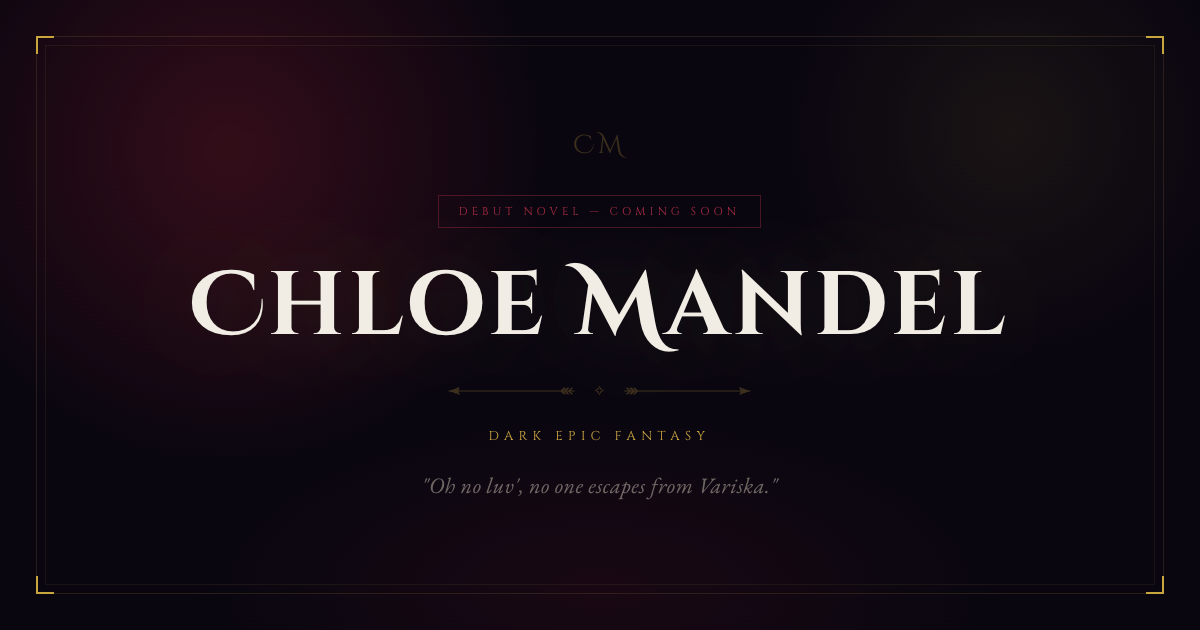
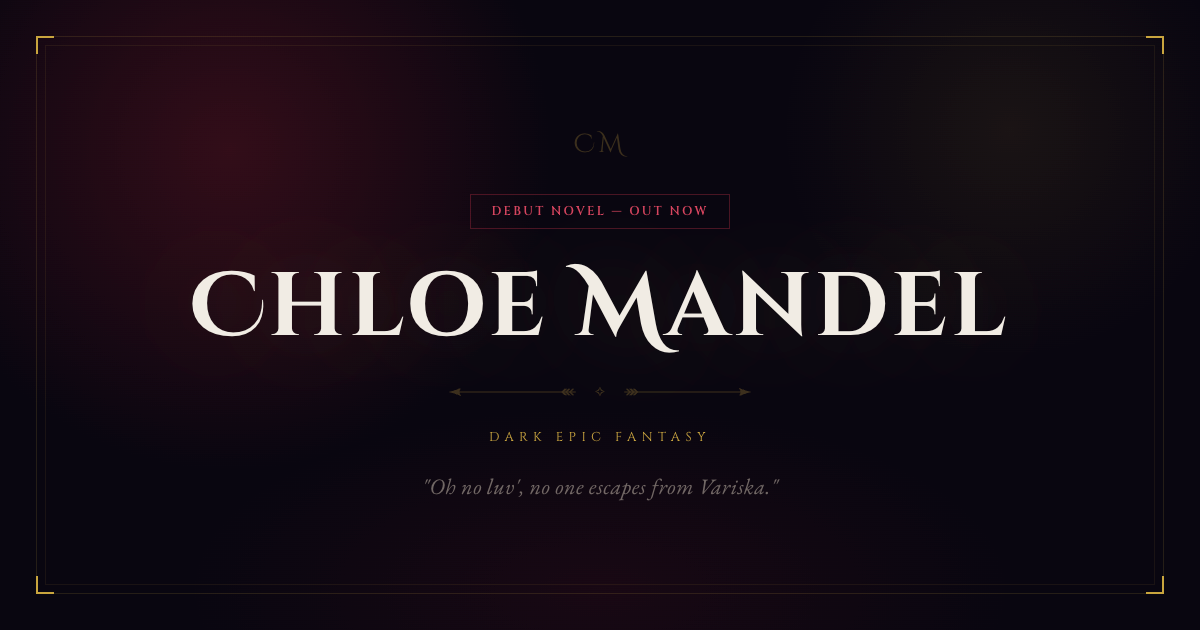
Update release and links

diff --git a/index.html b/index.html
@@ -6,7 +6,7 @@
 
   <!-- ── Primary meta ───────────────────────────────────────── -->
   <title>Chloe Mandel — Dark Epic Fantasy Author</title>
-  <meta name="description" content="Chloe Mandel writes dark and epic fantasy. Debut novel Curse of Nohvan releases November 2, 2026.">
+  <meta name="description" content="Chloe Mandel writes dark and epic fantasy. Debut novel Curse of Nohvan is out now.">
   <meta name="author" content="Chloe Mandel">
   <meta name="theme-color" content="#c9a53f" />
   <link rel="manifest" href="/manifest.json">
@@ -22,19 +22,19 @@
   <meta property="og:type"        content="website">
   <meta property="og:site_name"   content="Chloe Mandel">
   <meta property="og:title"       content="Chloe Mandel — Dark Epic Fantasy Author">
-  <meta property="og:description" content="Welcome to the dark epic fantasy worlds of Chloe Mandel. Step into a cursed valley and discover her upcoming debut novel, Curse of Nohvan.">
+  <meta property="og:description" content="Welcome to the dark epic fantasy worlds of Chloe Mandel. Step into a cursed valley and discover her debut novel, Curse of Nohvan, out now.">
   <meta property="og:url"         content="https://chloemandel.com">
   <meta property="og:image"        content="https://chloemandel.com/images/og-image.jpg">
   <meta property="og:image:width"  content="1200">
   <meta property="og:image:height" content="630">
   <meta property="og:image:type"   content="image/jpeg">
-  <meta property="og:image:alt" content="Dark epic fantasy teaser graphic for Chloe Mandel's upcoming debut novel, Curse of Nohvan, featuring the quote "Oh no luv', no one escapes from Variska."" />
+  <meta property="og:image:alt" content="Dark epic fantasy teaser graphic for Chloe Mandel's debut novel, Curse of Nohvan, featuring the quote "Oh no luv', no one escapes from Variska."" />
   <meta property="og:locale" content="en_GB" />
 
   <!-- ── Twitter / X Card (also used by Bluesky for previews) ─ -->
   <meta name="twitter:card"        content="summary_large_image">
   <meta name="twitter:title"       content="Chloe Mandel — Dark Epic Fantasy Author">
-  <meta name="twitter:description" content="Chloe Mandel writes dark and epic fantasy. Debut novel releases November 2, 2026.">
+  <meta name="twitter:description" content="Chloe Mandel writes dark and epic fantasy. Debut novel Curse of Nohvan is out now.">
   <meta name="twitter:image"       content="https://chloemandel.com/images/og-image.jpg">
 
   <!-- ── Canonical ────────────────────────────────────────────── -->
@@ -72,19 +72,21 @@
         "description": "A simple escort mission. A cursed valley. A stranger he was never meant to protect — and now can't abandon.",
         "inLanguage": "en",
         "datePublished": "2026-11-02",
-        "offers": {
-          "@type": "Offer",
-          "url": "https://www.amazon.com/dp/PLACEHOLDER",
-          "availability": "https://schema.org/PreOrder",
-          "priceCurrency": "USD"
-        }
+        "offers": [
+          { "@type": "Offer", "name": "Ebook on Amazon", "url": "https://mybook.to/curse-of-nohvan", "availability": "https://schema.org/InStock", "price": "4.99", "priceCurrency": "USD" },
+          { "@type": "Offer", "name": "Ebook on Kobo", "url": "https://www.kobo.com/gb/en/ebook/curse-of-nohvan", "availability": "https://schema.org/InStock", "price": "4.99", "priceCurrency": "GBP" },
+          { "@type": "Offer", "name": "Ebook on Google Play", "url": "https://play.google.com/store/books/details?id=YDoiEgAAQBAJ", "availability": "https://schema.org/InStock", "price": "4.99", "priceCurrency": "USD" },
+          { "@type": "Offer", "name": "Paperback on Amazon", "url": "https://mybook.to/curse-of-nohvan-paper", "availability": "https://schema.org/InStock", "price": "19.99", "priceCurrency": "USD" },
+          { "@type": "Offer", "name": "Paperback on Barnes & Noble", "url": "https://www.barnesandnoble.com/w/curse-of-nohvan-chloe-mandel/1151806192", "availability": "https://schema.org/InStock", "price": "19.99", "priceCurrency": "USD" },
+          { "@type": "Offer", "name": "Paperback on Waterstones", "url": "https://www.waterstones.com/book/curse-of-nohvan/chloe-mandel/9781066966714", "availability": "https://schema.org/InStock", "price": "12.99", "priceCurrency": "GBP" }
+        ]
       },
       {
         "@type": "WebSite",
         "@id": "https://chloemandel.com/#website",
         "name": "Chloe Mandel",
         "url": "https://chloemandel.com",
-        "description": "Chloe Mandel writes dark and epic fantasy. Debut novel Curse of Nohvan releases November 2, 2026.",
+        "description": "Chloe Mandel writes dark and epic fantasy. Debut novel Curse of Nohvan is out now.",
         "author": { "@id": "https://chloemandel.com/#author" }
       }
     ]
@@ -160,7 +162,7 @@
       </div>
 
       <div class="hero-content">
-        <span class="hero-label">Debut Novel &mdash; Nov 2, 2026</span>
+        <span class="hero-label">Debut Novel &mdash; Out Now</span>
 
         <h1 class="hero-hook">
           Oh no luv',<br>no one escapes from Variska.
@@ -176,7 +178,7 @@
         <p class="hero-genre">A Dark Epic Fantasy Novel</p>
 
         <div class="hero-actions">
-          <a href="#books" class="btn btn--primary">Discover the Book</a>
+          <button type="button" class="btn btn--primary" data-buy-open>Get the Book</button>
           <a href="#about" class="btn btn--ghost">About the Author</a>
         </div>
       </div>
@@ -212,13 +214,11 @@
                 <!-- <div class="book-cover-frame"></div> -->
               </div>
             </div>
-            <!-- TODO: replace with the real Amazon pre-order link -->
-            <a href="https://mybook.to/curse-of-nohvan" class="btn btn--primary btn--sm" rel="noopener noreferrer">Pre-order on Amazon</a>
-            <a href="#newsletter" class="btn btn--outline btn--sm">Get Chapter One Free</a>
+            <button type="button" class="btn btn--primary btn--sm" data-buy-open>Buy Now</button>
           </div>
 
           <div class="book-spotlight-content">
-            <span class="book-badge">Pre-order Available &middot; Nov 2, 2026</span>
+            <span class="book-badge">Out Now &middot; Nov 2, 2026</span>
             <p class="book-series">Curse of Nohvan</p>
             <h3 class="book-title">Welcome to Variska</h3>
             <p class="book-genre">Dark Epic Fantasy</p>
@@ -323,7 +323,7 @@
             <span class="section-eyebrow">Free gift for subscribers</span>
             <h2 class="newsletter-title">Chapter one, free</h2>
             <p class="newsletter-desc">
-              Subscribe to receive the opening chapter of <em>Curse of Nohvan</em> instantly, plus cover reveals, release dates and other updates from beyond the mists.
+              Subscribe to receive the opening chapter of <em>Curse of Nohvan</em> instantly, plus cover reveals, new releases and other updates from beyond the mists.
             </p>
           </div>
           
@@ -386,6 +386,25 @@
       </div>
     </div>
   </footer>
+
+  <dialog class="buy-dialog" id="buy-dialog" aria-labelledby="buy-dialog-title">
+    <button type="button" class="buy-dialog-close" data-buy-close aria-label="Close">&times;</button>
+    <h2 class="buy-dialog-title" id="buy-dialog-title">Get <em>Welcome to Variska</em></h2>
+
+    <p class="buy-dialog-label">Ebook</p>
+    <ul class="buy-dialog-list">
+      <li><a href="https://mybook.to/curse-of-nohvan" class="buy-link" rel="noopener noreferrer">Amazon</a></li>
+      <li><a href="https://www.kobo.com/gb/en/ebook/curse-of-nohvan" class="buy-link" rel="noopener noreferrer">Kobo</a></li>
+      <li><a href="https://play.google.com/store/books/details?id=YDoiEgAAQBAJ" class="buy-link" rel="noopener noreferrer">Google Play</a></li>
+    </ul>
+
+    <p class="buy-dialog-label">Paperback</p>
+    <ul class="buy-dialog-list">
+      <li><a href="https://mybook.to/curse-of-nohvan-paper" class="buy-link" rel="noopener noreferrer">Amazon</a></li>
+      <li><a href="https://www.barnesandnoble.com/w/curse-of-nohvan-chloe-mandel/1151806192" class="buy-link" rel="noopener noreferrer">Barnes &amp; Noble</a></li>
+      <li><a href="https://www.waterstones.com/book/curse-of-nohvan/chloe-mandel/9781066966714" class="buy-link" rel="noopener noreferrer">Waterstones</a></li>
+    </ul>
+  </dialog>
 
   <script src="js/main.js"></script>
 </body>

diff --git a/newsletter/index.html b/newsletter/index.html
@@ -6,7 +6,7 @@
 
   <!-- ── Primary meta ───────────────────────────────────────── -->
   <title>Join the Newsletter — Chloe Mandel</title>
-  <meta name="description" content="Be the first to hear about Chloe Mandel's dark epic fantasy debut, Curse of Nohvan — cover reveals, release dates and updates from beyond the mists.">
+  <meta name="description" content="Be the first to hear about Chloe Mandel's dark epic fantasy debut, Curse of Nohvan — cover reveals, new releases and updates from beyond the mists.">
   <meta name="author" content="Chloe Mandel">
   <meta name="theme-color" content="#c9a53f" />
   <link rel="manifest" href="/manifest.json">
@@ -22,13 +22,13 @@
   <meta property="og:type"        content="website">
   <meta property="og:site_name"   content="Chloe Mandel">
   <meta property="og:title"       content="Join the Newsletter — Chloe Mandel">
-  <meta property="og:description" content="Be the first to hear about Chloe Mandel's dark epic fantasy debut, Curse of Nohvan — cover reveals, release dates and updates from beyond the mists.">
+  <meta property="og:description" content="Be the first to hear about Chloe Mandel's dark epic fantasy debut, Curse of Nohvan — cover reveals, new releases and updates from beyond the mists.">
   <meta property="og:url"         content="https://chloemandel.com/newsletter">
   <meta property="og:image"        content="https://chloemandel.com/images/og-image.jpg">
   <meta property="og:image:width"  content="1200">
   <meta property="og:image:height" content="630">
   <meta property="og:image:type"   content="image/jpeg">
-  <meta property="og:image:alt" content="Dark epic fantasy teaser graphic for Chloe Mandel's upcoming debut novel, Curse of Nohvan." />
+  <meta property="og:image:alt" content="Dark epic fantasy teaser graphic for Chloe Mandel's debut novel, Curse of Nohvan." />
   <meta property="og:locale" content="en_GB" />
 
   <!-- ── Twitter / X Card (also used by Bluesky for previews) ─ -->
@@ -114,9 +114,9 @@
               <span class="section-eyebrow">Curse of Nohvan &middot; Dark Epic Fantasy</span>
               <h2 class="newsletter-title">Join us in Variska...</h2>
               <p class="newsletter-desc">
-                <em>Curse of Nohvan</em> releases November 2, 2026.
+                <em>Curse of Nohvan</em> is out now.
                 <br />
-                Subscribe for release updates and news before anyone else.
+                Subscribe for new releases and news before anyone else.
               </p>
             </div>
 

diff --git a/css/style.css b/css/style.css
@@ -542,6 +542,78 @@ a:hover { color: var(--gold-bright); }
   margin-top: 1.25rem;
 }
 
+/* ─── BUY DIALOG ─────────────────────────────────────────── */
+
+.buy-dialog {
+  margin: auto;
+  width: min(92vw, 26rem);
+  padding: 2.5rem 2rem 2rem;
+  background: var(--bg-surface);
+  color: var(--text);
+  border: 1px solid var(--border-subtle);
+  text-align: center;
+}
+
+.buy-dialog::backdrop {
+  background: var(--bg-void-a92);
+}
+
+.buy-dialog-close {
+  position: absolute;
+  top: 0.5rem;
+  right: 0.75rem;
+  background: none;
+  border: 0;
+  color: var(--text-dim);
+  font-size: 1.75rem;
+  line-height: 1;
+  cursor: pointer;
+}
+
+.buy-dialog-close:hover { color: var(--text); }
+
+.buy-dialog-title {
+  font-family: var(--font-heading);
+  font-size: 1.1rem;
+  font-weight: 500;
+  margin-bottom: 1.5rem;
+}
+
+.buy-dialog-label {
+  font-family: var(--font-heading);
+  font-size: 0.62rem;
+  letter-spacing: 0.3em;
+  text-transform: uppercase;
+  color: var(--gold);
+  margin: 1.25rem 0 0.6rem;
+}
+
+.buy-dialog-list {
+  list-style: none;
+  display: grid;
+  gap: 0.6rem;
+}
+
+.buy-link {
+  display: block;
+  padding: 0.8rem 1rem;
+  font-family: var(--font-heading);
+  font-size: 0.72rem;
+  letter-spacing: 0.22em;
+  text-transform: uppercase;
+  color: var(--text);
+  text-decoration: none;
+  border: 1px solid var(--border-subtle);
+  transition:
+    background var(--dur-med) var(--ease-smooth),
+    border-color var(--dur-med) var(--ease-smooth);
+}
+
+.buy-link:hover {
+  background: var(--gold-dim);
+  border-color: var(--gold);
+}
+
 /* Cover */
 .book-cover {
   aspect-ratio: 87 / 128;

diff --git a/og-card.html b/og-card.html
@@ -223,7 +223,7 @@
 
     <div class="content">
       <p class="monogram">CM</p>
-      <p class="badge">Debut Novel &mdash; Nov 2, 2026</p>
+      <p class="badge">Debut Novel &mdash; Out Now</p>
       <h1 class="name">Chloe Mandel</h1>
       <div class="rule">
         <svg class="rule-arrow rule-arrow--left" xmlns="http://www.w3.org/2000/svg" viewBox="0 0 780 60"><rect x="74" y="27" width="696" height="6" fill="currentColor"/><polygon points="765,10 751,10 731,30 751,50 765,50 745,30" fill="currentColor"/><polygon points="743,10 729,10 709,30 729,50 743,50 723,30" fill="currentColor"/><polygon points="721,10 707,10 687,30 707,50 721,50 701,30" fill="currentColor"/><path d="M 85,5 Q 40,25 10,30 Q 40,35 85,55 Q 65,30 85,5 Z" fill="currentColor"/></svg>

diff --git a/js/main.js b/js/main.js
@@ -100,3 +100,18 @@ const sectionObserver = new IntersectionObserver(
 );
 
 sections.forEach(s => sectionObserver.observe(s));
+
+/* ─── BUY DIALOG ─────────────────────────────────────────── */
+
+const buyDialog = document.getElementById('buy-dialog');
+
+document.querySelectorAll('[data-buy-open]').forEach(btn => {
+  btn.addEventListener('click', () => buyDialog.showModal());
+});
+
+buyDialog.querySelector('[data-buy-close]').addEventListener('click', () => buyDialog.close());
+
+// Close when clicking the backdrop
+buyDialog.addEventListener('click', e => {
+  if (e.target === buyDialog) buyDialog.close();
+});
